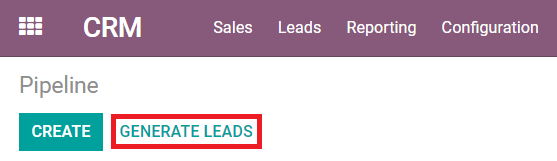
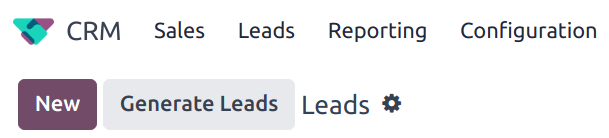
[IMP] CRM: Lead Mining 17

diff --git a/content/applications/sales/crm/acquire_leads/lead_mining.rst b/content/applications/sales/crm/acquire_leads/lead_mining.rst
@@ -2,6 +2,9 @@
 Lead mining
 ===========
 
+.. |IAP| replace:: :abbr:`IAP (In-App Purchase)`
+.. |CC| replace:: :guilabel:`Companies and their Contacts`
+
 Lead mining is a feature that allows CRM users to generate new leads directly into their Odoo
 database. To ensure lead qualification, lead mining output is determined by a variety of filtering
 criteria, such as the country, the company size, and the industry.
@@ -9,8 +12,8 @@ criteria, such as the country, the company size, and the industry.
 Configuration
 =============
 
-To get started, go to :menuselection:`CRM --> Configuration --> Settings` and activate
-:guilabel:`Lead Mining`.
+To get started, go to :menuselection:`CRM --> Configuration --> Settings` and tick the
+:guilabel:`Lead Mining` checkbox to activate the feature. Then click :guilabel:`Save`.
 
 .. image:: lead_mining/activate-lead-mining.png
    :align: center
@@ -20,16 +23,18 @@ Generate leads
 ==============
 
 After the :guilabel:`Lead Mining` setting is activated, a new button called :guilabel:`Generate
-Leads` is available to use in the :guilabel:`CRM` pipeline. Lead mining requests are also available
-through :menuselection:`CRM --> Configuration --> Lead Mining Requests`, or through
-:menuselection:`CRM --> Leads --> Leads` where the :guilabel:`Generate Leads` button is also
-available.
+Leads` is available to use in the :guilabel:`CRM` pipeline (:menuselection:`CRM App --> Sales --> My
+Pipeline`).
+
+Lead mining requests are also available through :menuselection:`CRM --> Configuration --> Lead
+Mining Requests`, or through :menuselection:`CRM --> Leads --> Leads`, where the :guilabel:`Generate
+Leads` button is also available.
 
 .. image:: lead_mining/generate-leads-button.png
    :align: center
    :alt: The Generate Leads button to use the lead mining feature.
 
-Click on the :guilabel:`Generate Leads` button, and a window will appear offering a variety of
+Click the :guilabel:`Generate Leads` button, and a pop-up window appears, offering a variety of
 criteria by which to generate leads.
 
 .. image:: lead_mining/generate-leads-popup.png
@@ -37,43 +42,64 @@ criteria by which to generate leads.
    :alt: The pop-up window with the selection criteria in order to generate leads in Odoo.
 
 Choose to generate leads for :guilabel:`Companies` to get company information only, or choose
-:guilabel:`Companies and their Contacts` to get company information as well as individual employee
-contact information. When targeting :guilabel:`Companies and their Contacts`, there is an option to
-filter contacts based on :guilabel:`Role` or :guilabel:`Seniority`.
+|CC| to get company information and individual employee contact information.
 
-Additional filtering options include:
+.. note::
+   When targeting |CC|, additional options are available to filter contacts based on
+   :guilabel:`Role` or :guilabel:`Seniority`.
 
-- :guilabel:`Size`: filter leads based on the number of employees at the company
-- :guilabel:`Countries`: filter leads based on the country (or countries) they are located in
-- :guilabel:`States`: further filter leads based on the state they are located in, if applicable
-- :guilabel:`Industries`: filter leads based on the specific industry they work in
-- :guilabel:`Sales Team`: choose which Sales Team the leads will be assigned to
-- :guilabel:`Salesperson`: choose which person(s) on the Sales Team the leads will be assigned to
-- :guilabel:`Default Tags`: choose which tags are applied directly to the leads once found
+Additional filtering options include the following:
+
+- :guilabel:`Countries`: filter leads based on the country (or countries) they are located in.
+- :guilabel:`States`: further filter leads based on the state in which they are located, if
+  applicable.
+- :guilabel:`Industries`: filter leads based on the specific industry they work in.
+- :guilabel:`Filter on Size`: tick this checkbox to specify the number of employees at the company.
+  This generates a field labeled :guilabel:`Size`. Fill in the blanks to create a range for the
+  desired company size.
+- :guilabel:`Sales Team`: choose which Sales Team the leads will be assigned to.
+- :guilabel:`Salesperson`: choose which member of the Sales Team the leads will be assigned to.
+- :guilabel:`Default Tags`: choose which tags are applied directly to the leads once found.
 
 .. note::
    Make sure to be aware of the latest EU regulations when receiving contact information. Get more
    information about the General Data Protection Regulation on `Odoo GDPR <http://odoo.com/gdpr>`_.
 
+View leads
+----------
+
+After leads are generated, they are assigned to the designated salesperson and team. To view
+additional information regarding the lead, select one from the list and click to open it.
+
+In the *chatter* thread for the lead, additional information is provided. This can include the
+number of employees, the technology used by the company, the timezone, and direct contact
+information.
+
+.. image:: lead_mining/generated-lead.png
+   :align: center
+   :alt: The chatter thread of a newly generated lead.
+
+.. note::
+   If :guilabel:`Leads` are **not** enabled for the database, then leads are generated as
+   *opportunities* and added to the pipeline for the designated salesperson.
+
+   To enable the :guilabel:`Leads` feature, navigate to :menuselection:`CRM app --> Configuration
+   --> Settings` and tick the :guilabel:`Leads` checkbox.
+
 Pricing
 =======
 
-Lead mining is an *In-App Purchase* feature and each generated lead costs one credit.
+Lead mining is an *In-App Purchase* feature, and each generated lead costs one :ref:`credit
+<in_app_purchase/credits>`.
 
-Choosing to generate :guilabel:`Companies and their Contacts` costs one additional credit for each
-contact generated.
-
-.. note::
-   See here for full pricing information: `Lead Generation by Odoo IAP <https://iap.odoo.com/iap/
-   in-app-services/167?>`_.
+.. important::
+   Generating |CC| costs one additional credit for each contact generated. See here for complete
+   pricing information: `Lead Generation by Odoo IAP
+   <https://iap.odoo.com/iap/in-app-services/167?>`_.
 
 To buy credits, navigate to :menuselection:`CRM --> Configuration --> Settings`. In the
 :guilabel:`Lead Generation` section, under the :guilabel:`Lead Mining` feature, click on
 :guilabel:`Buy Credits`.
-
-.. image:: lead_mining/buy-lead-mining-credits-setting.png
-   :align: center
-   :alt: Buy credits from the lead mining settings.
 
 Credits may also be purchased by navigating to the :menuselection:`Settings --> General Settings`.
 In the :guilabel:`In-App Purchases` section, under the :guilabel:`Odoo IAP` feature, click on
@@ -84,9 +110,9 @@ In the :guilabel:`In-App Purchases` section, under the :guilabel:`Odoo IAP` feat
    :alt: Buy credits in the Odoo IAP settings.
 
 .. note::
-   Enterprise Odoo users with a valid subscription get free credits to test :abbr:`IAP (In-App
-   Purchase)` features before deciding to purchase more credits for the database. This includes
-   demo/training databases, educational databases, and one-app-free databases.
+   Enterprise Odoo users with a valid subscription get free credits to test |IAP| features before
+   purchasing more credits for the database. This includes demo/training databases, educational
+   databases, and one-app-free databases.
 
 .. seealso::
    :doc:`/applications/essentials/in_app_purchase`
